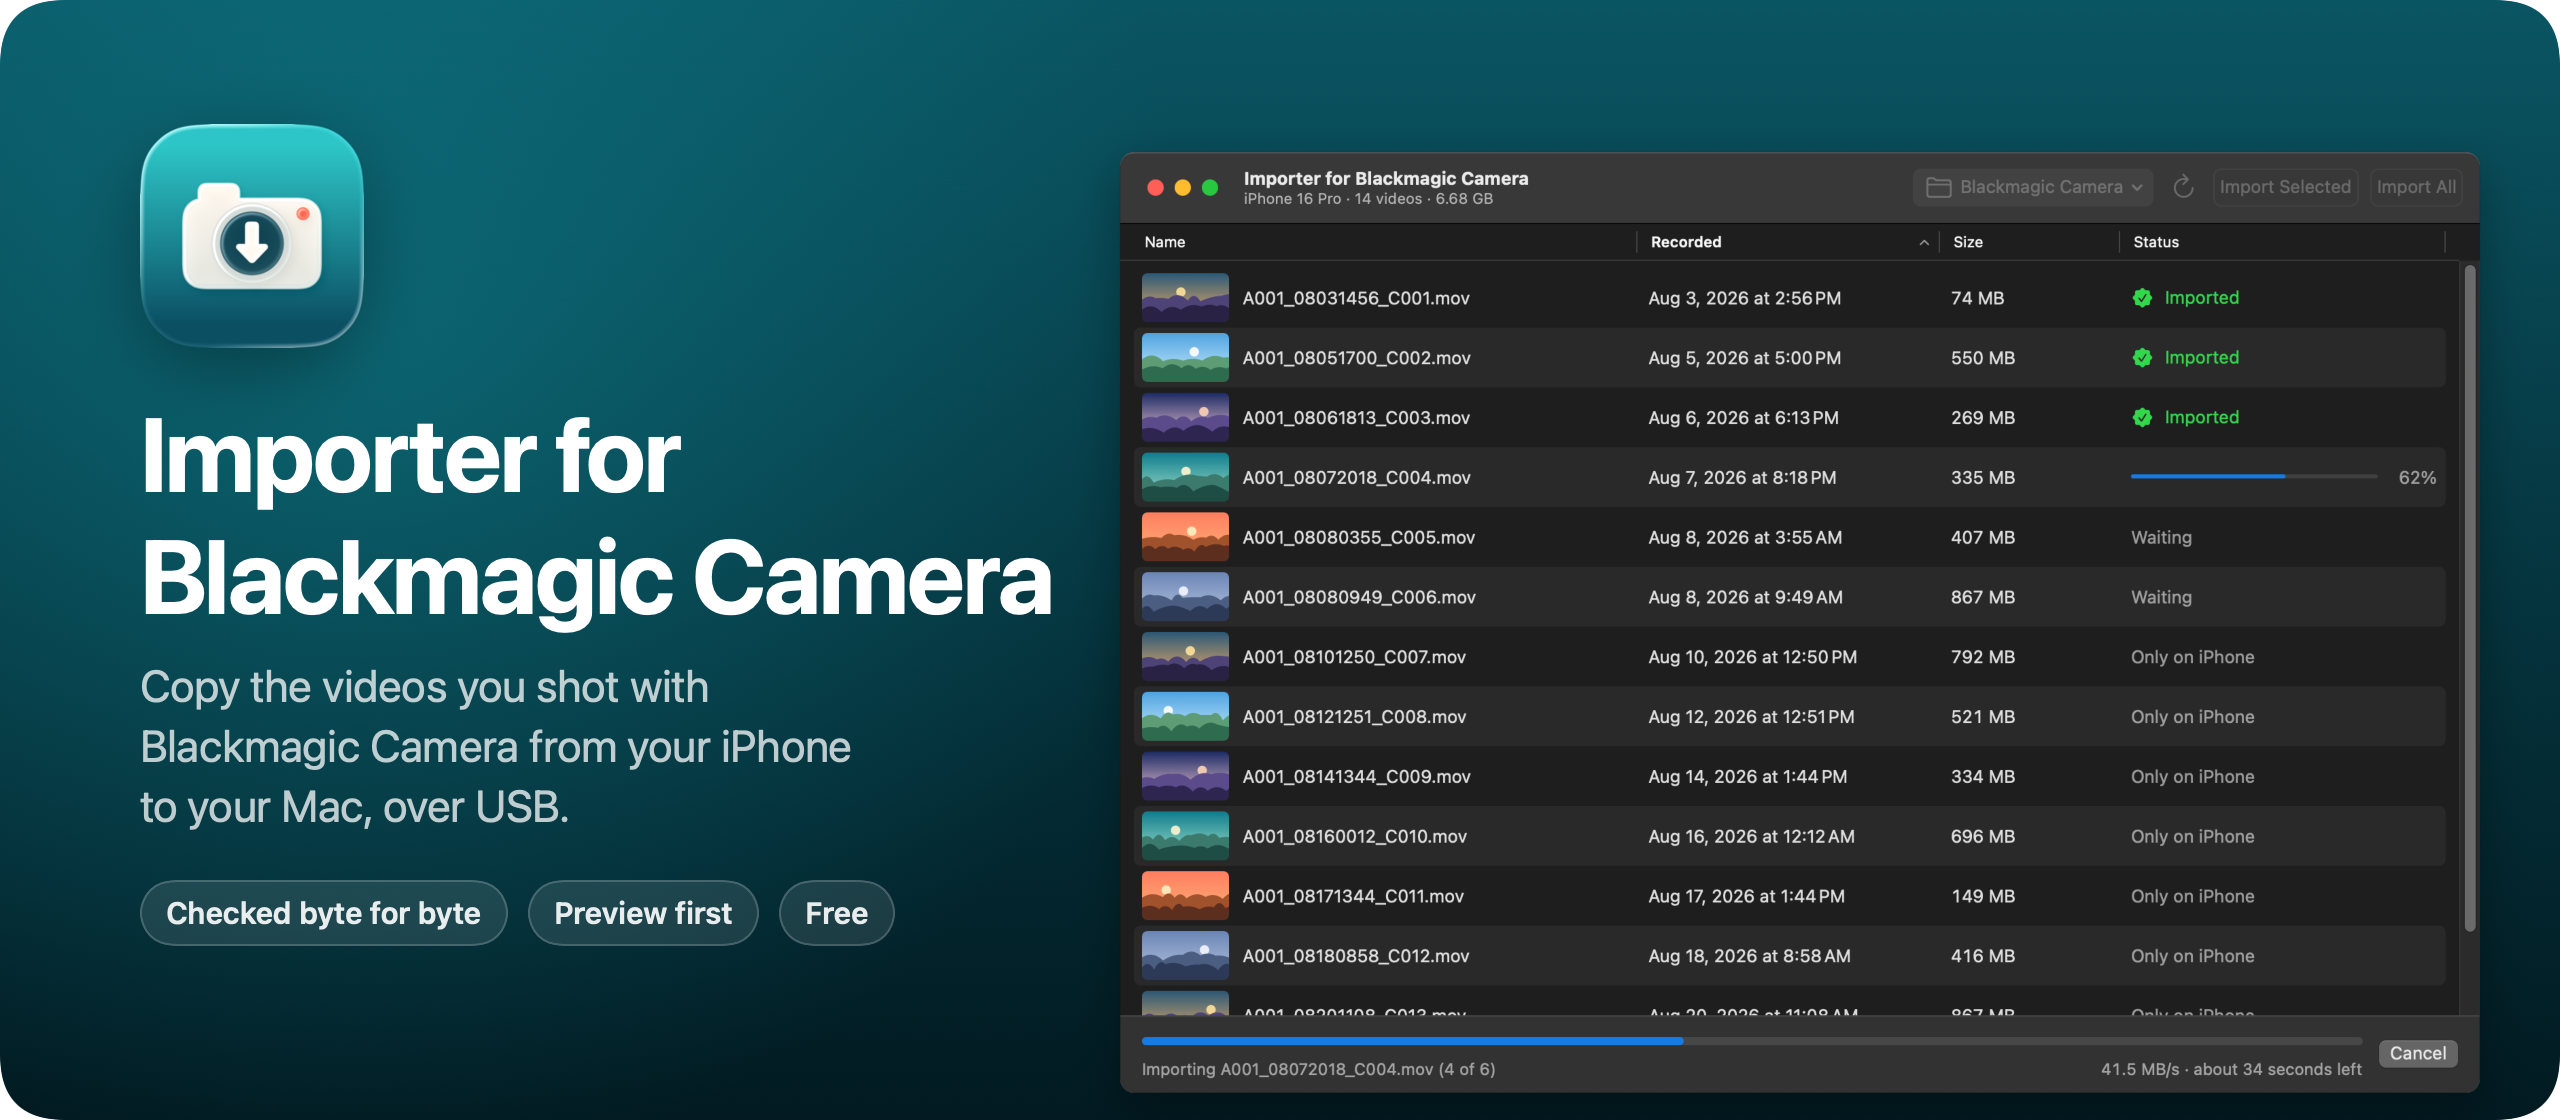
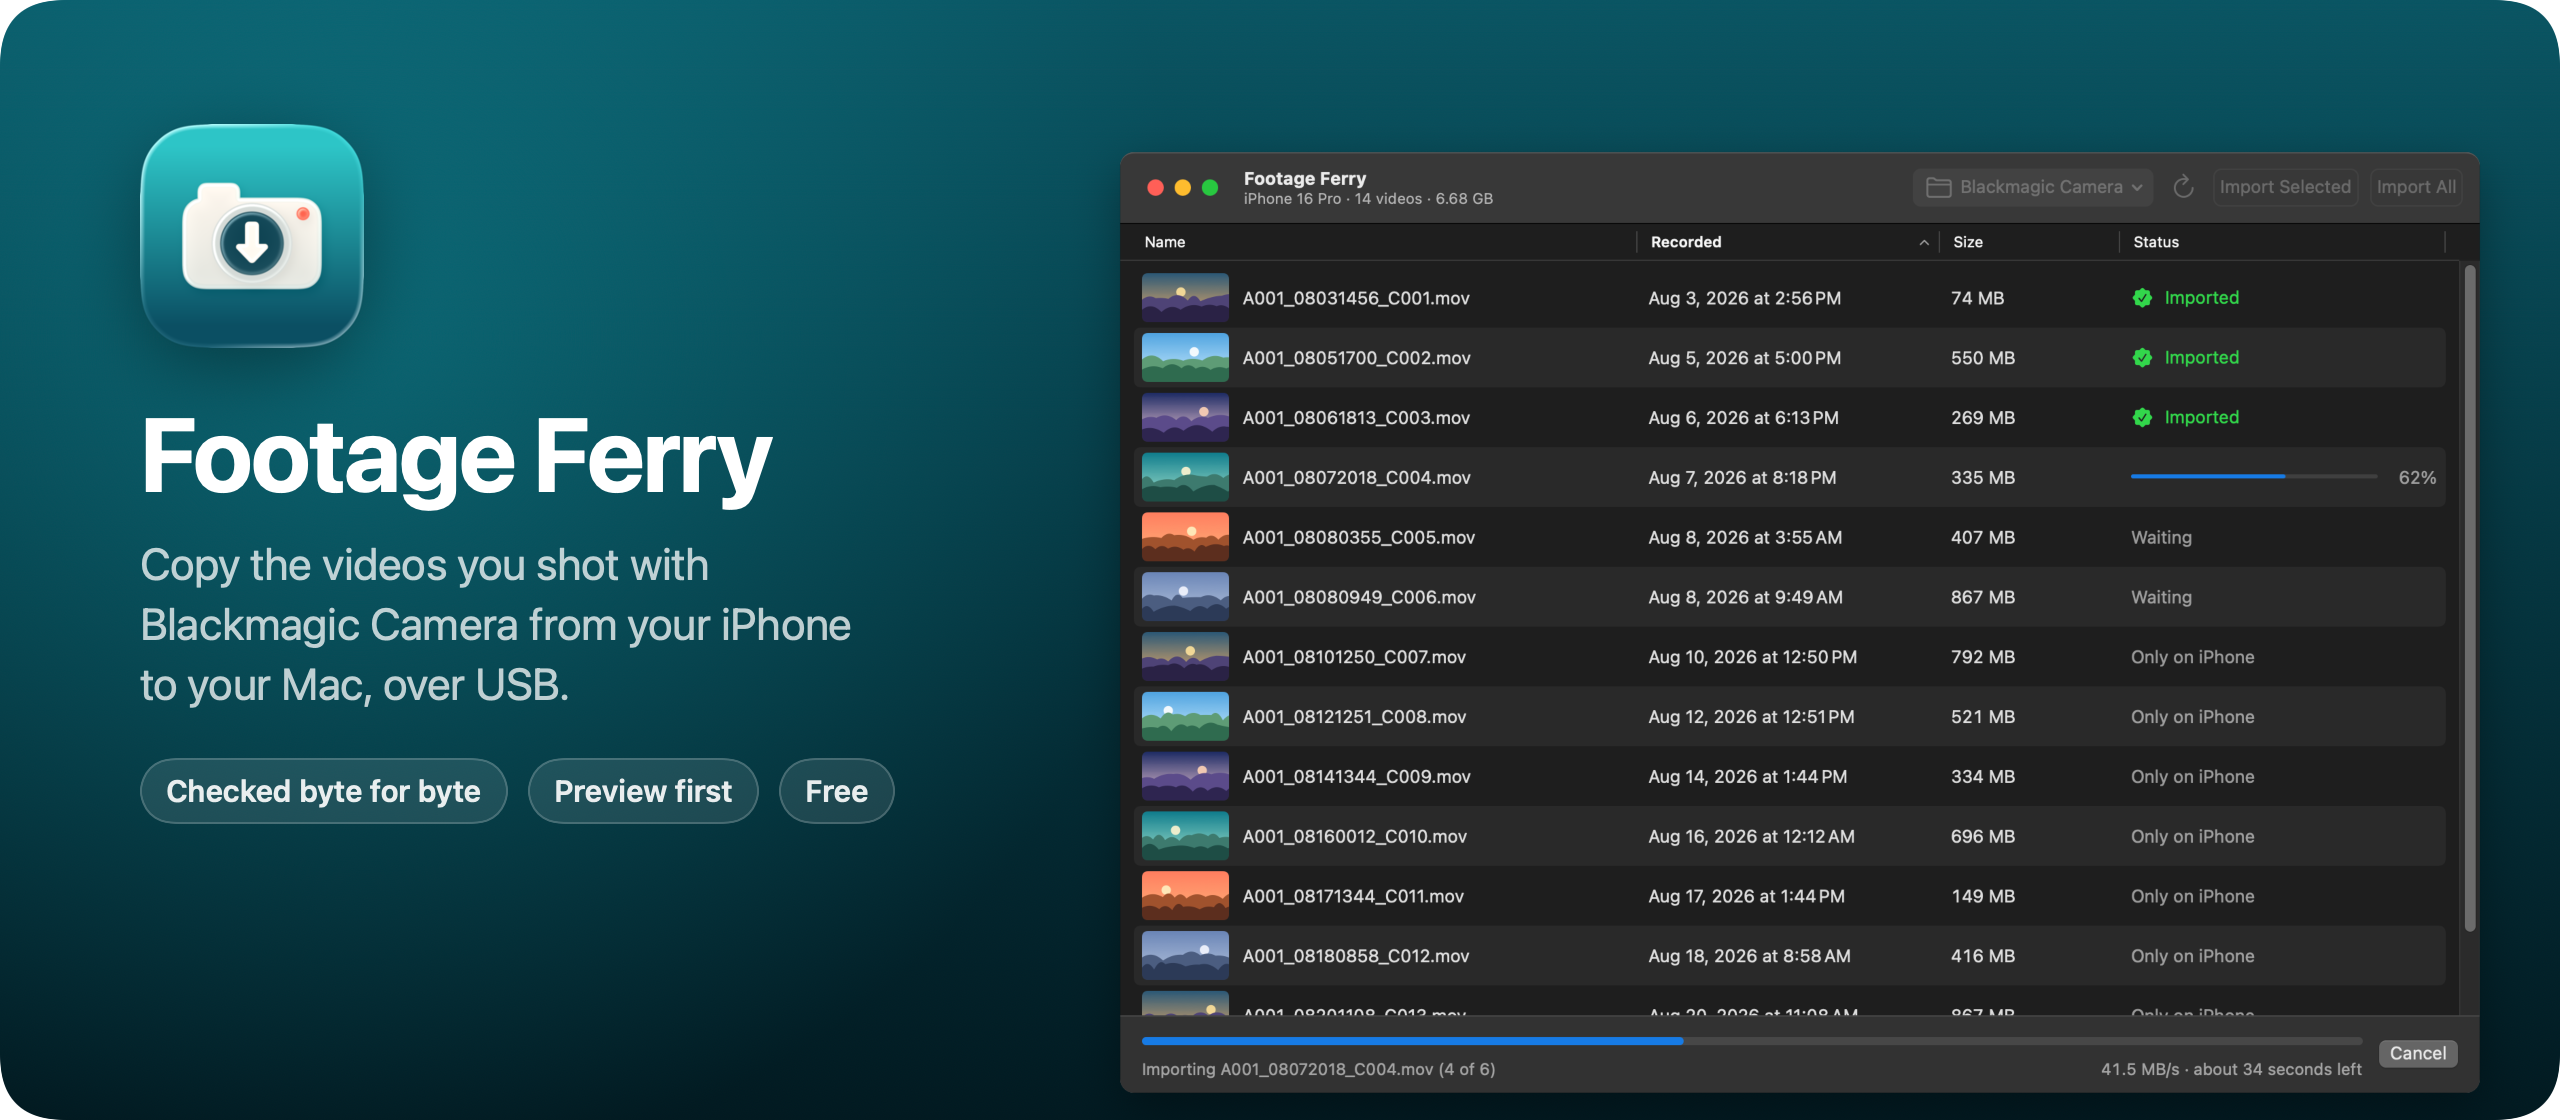
Rename app to Footage Ferry

Changed region(s): [[0.0312, 0.375, 0.4375, 0.75], [0.0312, 0.7812, 0.375, 0.8438], [0.5, 0.1562, 0.5938, 0.1875]]

diff --git a/BlackmagicCamImporter/ImporterApp.swift b/BlackmagicCamImporter/ImporterApp.swift
@@ -7,7 +7,7 @@ struct ImporterApp: App {
 
   init() {
     if !arguments.contains("--demo") {
-      AppUpdater.shared.start(repository: "flaviocopes/importer-for-blackmagic-camera")
+      AppUpdater.shared.start(repository: "flaviocopes/footage-ferry")
     }
   }
 
@@ -19,7 +19,7 @@ struct ImporterApp: App {
   }
 
   var body: some Scene {
-    Window("Importer for Blackmagic Camera", id: "main") {
+    Window("Footage Ferry", id: "main") {
       ContentView(model: model)
         .frame(minWidth: 820, minHeight: 440)
         .task { model.start(demo: arguments.contains("--demo"), demoVideo: demoVideo, demoSlowCable: arguments.contains("--demo-slow-cable")) }

diff --git a/scripts/render-banner.swift b/scripts/render-banner.swift
@@ -8,7 +8,7 @@
 import AppKit
 import SwiftUI
 
-let title = "Importer for\nBlackmagic Camera"
+let title = "Footage Ferry"
 let tagline = "Copy the videos you shot with\nBlackmagic Camera from your iPhone\nto your Mac, over USB."
 let chips = ["Checked byte for byte", "Preview first", "Free"]
 let size = CGSize(width: 1280, height: 560)

diff --git a/BlackmagicCamImporter/ContentView.swift b/BlackmagicCamImporter/ContentView.swift
@@ -6,7 +6,7 @@ struct ContentView: View {
 
   var body: some View {
     content
-      .navigationTitle("Importer for Blackmagic Camera")
+      .navigationTitle("Footage Ferry")
       .navigationSubtitle(subtitle)
       .toolbar { toolbar }
       .safeAreaInset(edge: .bottom, spacing: 0) {

diff --git a/README.md b/README.md
@@ -1,28 +1,28 @@
-<img src="docs/banner.png" alt="Importer for Blackmagic Camera, a Mac app that copies Blackmagic Camera videos from an iPhone" />
+<img src="docs/banner.png" alt="Footage Ferry, a Mac app that copies Blackmagic Camera videos from an iPhone" />
 
-Importer for Blackmagic Camera is a free Mac app that copies the videos you record with [Blackmagic Camera](https://www.blackmagicdesign.com/products/blackmagiccamera) on your iPhone to your Mac, over a USB cable. Plug in the iPhone, see every clip with a thumbnail, play the ones you're not sure about, and import all of them or just a few.
+Footage Ferry is a free Mac app that copies the videos you record with [Blackmagic Camera](https://www.blackmagicdesign.com/products/blackmagiccamera) on your iPhone to your Mac, over a USB cable. Plug in the iPhone, see every clip with a thumbnail, play the ones you're not sure about, and import all of them or just a few.
 
 Blackmagic Camera can save clips straight to the iPhone's photo library, but that setting never worked for me, so my clips stayed in the app's own library. Getting them out is the hard part: the clips are huge, and when you save them to the photo library by hand or export them, nothing tells you when the export has finished. The iPhone can lock itself halfway through, and you're left wondering whether your videos made it. This app shows every copy as it happens, checks each one against the iPhone's file byte for byte, and only then offers to free up the space on the iPhone.
 
-Read the announcement and watch the 30-second demo on my blog: [I built a Mac app to import Blackmagic Camera videos from my iPhone](https://flaviocopes.com/importer-for-blackmagic-camera/).
+Read the announcement and watch the 30-second demo on my blog: [I built a Mac app to import Blackmagic Camera videos from my iPhone](https://flaviocopes.com/footage-ferry/).
 
-[![Watch the 30-second Importer for Blackmagic Camera demo](docs/showreel-poster.jpg)](https://flaviocopes.com/importer-for-blackmagic-camera/)
+[![Watch the 30-second Footage Ferry demo](docs/showreel-poster.jpg)](https://flaviocopes.com/footage-ferry/)
 
-> Importer for Blackmagic Camera is an independent project. It's not made by, affiliated with or endorsed by Blackmagic Design. See the [disclaimer](#disclaimer).
+> Footage Ferry is an independent project. It's not made by, affiliated with or endorsed by Blackmagic Design. See the [disclaimer](#disclaimer).
 
 ## Download
 
-Get `Importer-for-Blackmagic-Camera-1.2.0.zip` from the [latest release](https://github.com/flaviocopes/importer-for-blackmagic-camera/releases/latest), unzip it, and drag Importer for Blackmagic Camera to your Applications folder. It runs on macOS 15 Sequoia or later, on Apple silicon and Intel Macs.
+Get `Footage-Ferry-1.3.0.zip` from the [latest release](https://github.com/flaviocopes/footage-ferry/releases/latest), unzip it, and drag Footage Ferry to your Applications folder. It runs on macOS 15 Sequoia or later, on Apple silicon and Intel Macs.
 
 ### Opening it the first time
 
-Importer for Blackmagic Camera is signed with my Apple Developer ID and notarized by Apple. The first time you open it, macOS asks if you're sure you want to open an app downloaded from the internet. Click **Open**.
+Footage Ferry is signed with my Apple Developer ID and notarized by Apple. The first time you open it, macOS asks if you're sure you want to open an app downloaded from the internet. Click **Open**.
 
-On a work laptop you might not be able to install apps in `/Applications`. You can keep Importer for Blackmagic Camera in the `Applications` folder inside your home folder instead.
+On a work laptop you might not be able to install apps in `/Applications`. You can keep Footage Ferry in the `Applications` folder inside your home folder instead.
 
 ### Updates
 
-Once a day, Importer for Blackmagic Camera asks GitHub whether there's a newer version. When there is, it shows what's new, and **Install and Relaunch** puts it in place of the old one. **Importer for Blackmagic Camera → Check for Updates…** checks right away.
+Once a day, Footage Ferry asks GitHub whether there's a newer version. When there is, it shows what's new, and **Install and Relaunch** puts it in place of the old one. **Footage Ferry → Check for Updates…** checks right away.
 
 To turn off the daily check, run this in Terminal:
 
@@ -52,12 +52,12 @@ I built and tested it with an iPhone 16 Pro on iOS 26.7.1 and Blackmagic Camera 
 
 <picture>
   <source media="(prefers-color-scheme: dark)" srcset="docs/screenshot-dark.png" />
-  <img src="docs/screenshot-light.png" alt="The Importer for Blackmagic Camera window halfway through an import, with three clips imported and the fourth at 62%" />
+  <img src="docs/screenshot-light.png" alt="The Footage Ferry window halfway through an import, with three clips imported and the fourth at 62%" />
 </picture>
 
 ## Privacy
 
-Your videos only go from the iPhone to the folder you picked. Thumbnails are cached on your Mac in `~/Library/Caches/com.flaviocopes.blackmagic-cam-importer`. Once a day, the app asks GitHub whether there's a newer version of Importer for Blackmagic Camera, and it downloads one only when you click **Install and Relaunch**. There are no accounts and no analytics.
+Your videos only go from the iPhone to the folder you picked. Thumbnails are cached on your Mac in `~/Library/Caches/com.flaviocopes.blackmagic-cam-importer`. Once a day, the app asks GitHub whether there's a newer version of Footage Ferry, and it downloads one only when you click **Install and Relaunch**. There are no accounts and no analytics.
 
 ## Build it from source
 
@@ -69,13 +69,10 @@ Open `BlackmagicCamImporter.xcodeproj` and press `⌘R`. To build the release zi
 scripts/build-release.sh
 ```
 
-It builds a universal app in `build/release/Release/Importer for Blackmagic Camera.app` and zips it into `dist/`. With my Developer ID certificate in the keychain it signs and notarizes the app. Everywhere else it signs it ad hoc, so your copy is signed ad hoc. A copy you build yourself opens without a warning on your Mac.
+It builds a universal app in `build/release/Release/Footage Ferry.app` and zips it into `dist/`. With my Developer ID certificate in the keychain it signs and notarizes the app. Everywhere else it signs it ad hoc, so your copy is signed ad hoc. A copy you build yourself opens without a warning on your Mac.
 
-If you send it to another Mac, macOS says it "could not verify Importer for Blackmagic Camera is free of malware". Click **Done**, then go to **System Settings → Privacy & Security** and click **Open Anyway**, or remove the quarantine flag in Terminal:
+If you send it to another Mac, macOS says it "could not verify Footage Ferry is free of malware". Click **Done**, then go to **System Settings → Privacy & Security** and click **Open Anyway**.
 
-```sh
-xattr -dr com.apple.quarantine "/Applications/Importer for Blackmagic Camera.app"
-```
 
 ## Development
 
@@ -102,7 +99,7 @@ MobileDevice is a private framework, so a future macOS update could break the ap
 
 ## Disclaimer
 
-Importer for Blackmagic Camera is an independent, unofficial project. It's not made by, affiliated with, sponsored by or endorsed by Blackmagic Design Pty. Ltd. Blackmagic Design, Blackmagic Camera and related names are trademarks of Blackmagic Design. They're used here only to say which app this one works with.
+Footage Ferry is an independent, unofficial project. It's not made by, affiliated with, sponsored by or endorsed by Blackmagic Design Pty. Ltd. Blackmagic Design, Blackmagic Camera and related names are trademarks of Blackmagic Design. They're used here only to say which app this one works with.
 
 The app is provided as is, without any warranty, as the [MIT License](LICENSE) says. You use it at your own risk. I'm not responsible for lost or damaged videos, or for any damage to your iPhone, your Mac or anything else. The app checks every copy before it offers to delete anything, but keep a backup of footage you care about, and look at your copies before you delete the originals.
 

diff --git a/AGENTS.md b/AGENTS.md
@@ -1,4 +1,4 @@
-# Importer for Blackmagic Camera
+# Footage Ferry
 
 A SwiftUI macOS app that copies the videos recorded with the Blackmagic Camera iPhone app to the Mac over USB, then offers to delete them from the iPhone. No dependencies. Not affiliated with Blackmagic Design.
 
@@ -33,19 +33,19 @@ xcodebuild -project BlackmagicCamImporter.xcodeproj -scheme BlackmagicCamImporte
 scripts/test.sh                    # importer and model against DemoFiles, no iPhone needed
 scripts/check-iphone.sh            # against the iPhone on USB, read-only: open, list, read the smallest clip, a range read, hashes, a thumbnail of the largest clip, a copy into a temp folder
 scripts/check-iphone.sh --write    # also writes, hashes and deletes a scratch file in a temporary folder in Blackmagic Camera's Documents
-scripts/build-release.sh           # universal Release build, Developer ID signed and notarized when the certificate is in the keychain, dist/Importer-for-Blackmagic-Camera-<version>.zip
+scripts/build-release.sh           # universal Release build, Developer ID signed and notarized when the certificate is in the keychain, dist/Footage-Ferry-<version>.zip
 swift scripts/render-icon.swift    # after editing the icon
 scripts/screenshot.sh --vm         # docs/screenshot-light.png and -dark.png, captured in the test VM (leave out --vm to capture on this Mac)
 swift scripts/render-banner.swift  # docs/banner.png, from the icon and the dark screenshot
 ```
 
-The Debug app is `build/Build/Products/Debug/Importer for Blackmagic Camera.app`. Launch it with `--demo` to get 14 made-up clips instead of the iPhone. In the test VM, which has no iPhone: `testvm open "build/Build/Products/Debug/Importer for Blackmagic Camera.app" --demo`. Made-up clips have no thumbnails and don't play, so to test previews add `--demo-video <path>` with a video in the VM. `--demo-slow-cable` shows the USB 2 cable notice. Make one with `ffmpeg -f lavfi -i testsrc2=size=1920x1080:rate=30 -t 10 -c:v libx264 -pix_fmt yuv420p /tmp/importer-demo.mov`, never from someone's real recordings.
+The Debug app is `build/Build/Products/Debug/Footage Ferry.app`. Launch it with `--demo` to get 14 made-up clips instead of the iPhone. In the test VM, which has no iPhone: `testvm open "build/Build/Products/Debug/Footage Ferry.app" --demo`. Made-up clips have no thumbnails and don't play, so to test previews add `--demo-video <path>` with a video in the VM. `--demo-slow-cable` shows the USB 2 cable notice. Make one with `ffmpeg -f lavfi -i testsrc2=size=1920x1080:rate=30 -t 10 -c:v libx264 -pix_fmt yuv420p /tmp/importer-demo.mov`, never from someone's real recordings.
 
 `project.yml` is the source of the Xcode project, so edit it and regenerate instead of changing `project.pbxproj` by hand. The version lives in its `MARKETING_VERSION`.
 
 ## Rules
 
-- The app was called Importer for Blackmagic Cam in 1.0, and its repo `importer-for-blackmagic-cam`. Since 1.1 everything people see says Blackmagic Camera, Blackmagic's name for its app. The bundle ID `com.flaviocopes.blackmagic-cam-importer`, the `BlackmagicCamImporter` target and folder, and the local folders keep the old name: the updater only installs a release with the same bundle ID, so never change it.
+- Footage Ferry keeps the original bundle ID `com.flaviocopes.blackmagic-cam-importer`, the `BlackmagicCamImporter` target and source folder. The updater requires the same bundle ID. Its local checkout and GitHub repository are `footage-ferry`.
 
 - Never delete anything from the iPhone without `Importer.deleteOriginal`'s check passing right before the delete. Don't add a delete path that skips it, and don't cache its result.
 - Never overwrite or delete a file in the import folder, except the app's own `.importing` files.
@@ -60,5 +60,9 @@ The Debug app is `build/Build/Products/Debug/Importer for Blackmagic Camera.app`
 - Releases are minor by default (1.2.0): new features, changes people notice, renames, and bug fixes people care about. A point release is only for really unimportant stuff. The `open-source-release` skill has the rule. Bump `CURRENT_PROJECT_VERSION` by one with every release.
 - The updater trusts the GitHub release. Every release needs its `vX.Y.Z` tag, the zip from `scripts/build-release.sh` attached, and a `MARKETING_VERSION` that matches the tag, or the app refuses the update.
 - Releases are signed with Flavio Copes's Developer ID (team `DGFKNTAG99`) with the hardened runtime, and notarized inside `scripts/build-release.sh` when the certificate is in the keychain and a notarytool profile named `notary` is set up. Forks have no certificate, so the script signs ad hoc there and skips notarization.
-- The 30-second demo video comes from a separate Remotion project, `~/dev/importer-for-blackmagic-cam-showreel`, which rebuilds the window in code with made-up clips. It's not part of this repo, and the copy next to it is ignored.
+- The 30-second demo video comes from a separate Remotion project, `~/dev/footage-ferry-showreel`, which rebuilds the window in code with made-up clips. It's not part of this repo, and the copy next to it is ignored.
 - Don't run `scripts/build-release.sh` just to test a change. It deletes `build/release` and overwrites the `dist/` zip of the current release, whose checksum is published. Build Debug instead.
+
+## Naming compatibility
+
+The public app name is Footage Ferry. Keep its existing bundle ID, saved data paths, URL schemes, CLI commands and internal Swift targets so installed copies and agent integrations remain compatible. Use the renamed checkout folder and GitHub repository in new links and build instructions.
